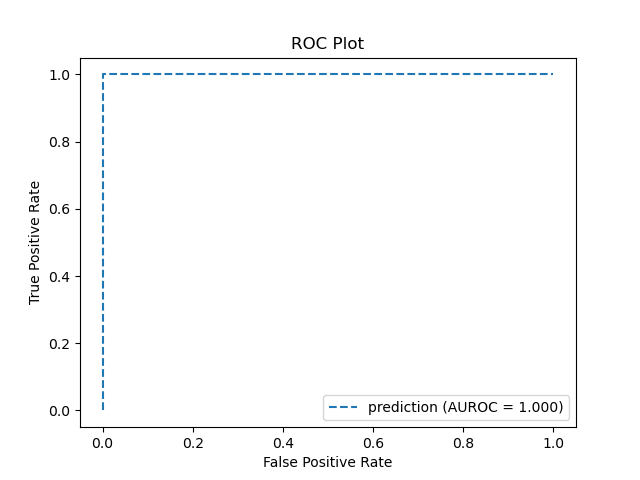
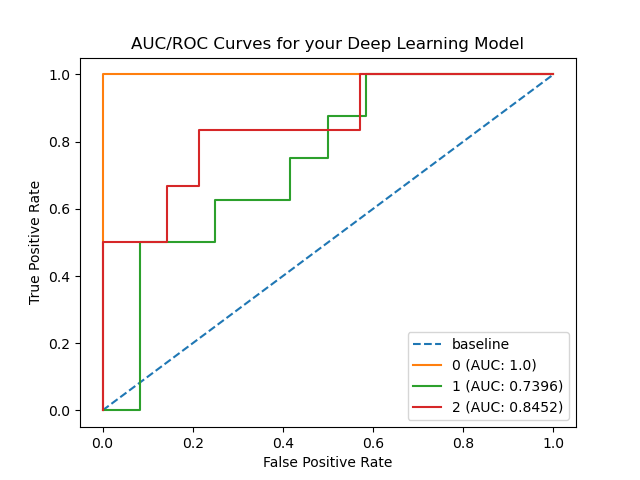
finished making AUC/ROC graph emailable

diff --git a/frontend/playground-frontend/src/helper_functions/TalkWithBackend.js b/frontend/playground-frontend/src/helper_functions/TalkWithBackend.js
@@ -56,6 +56,7 @@ export const train_and_output = async (
             "../frontend/playground-frontend/src/backend_outputs/visualization_output/my_loss_plot.png",
             "../frontend/playground-frontend/src/backend_outputs/visualization_output/my_accuracy_plot.png",
             "../frontend/playground-frontend/src/backend_outputs/visualization_output/my_confusion_matrix.png",
+            "../frontend/playground-frontend/src/backend_outputs/visualization_output/my_AUC_ROC_Curve.png",
           ],
         }),
       });

diff --git a/backend/utils.py b/backend/utils.py
@@ -242,13 +242,24 @@ def generate_AUC_ROC_CURVE(labels_last_epoch, y_pred_last_epoch):
     
     # making a AUC/ROC graph for each category's probability predicitons
     try:
+        # using matplotlib in addition to plotly so that we can generate graph image in backend and email this to user
+        plt.clf()
+        plt.title('AUC/ROC Curves for your Deep Learning Model')
+        plt.xlabel('False Positive Rate')
+        plt.ylabel('True Positive Rate')
+        plt.plot([0, 1], [0, 1], linestyle='--', label=f'baseline')
         for i in range(len(categoryList)):
             pred_prob = np. array(y_preds_list[i])
             y_test = np. array(label_list[i])
             fpr, tpr, _ = roc_curve(y_test, pred_prob)
             auc = roc_auc_score(y_test, pred_prob)
-
+            # this data will be sent to frontend to make interactive plotly graph
             plot_data.append([fpr.tolist(), tpr.tolist(), auc])
+            plt.plot(fpr, tpr, linestyle='-', label=f'{i} (AUC: {round(auc,4)})')
+        plt.legend()
+        plt.savefig(AUC_ROC_VIZ)
+
+
     except:
         return []
 
